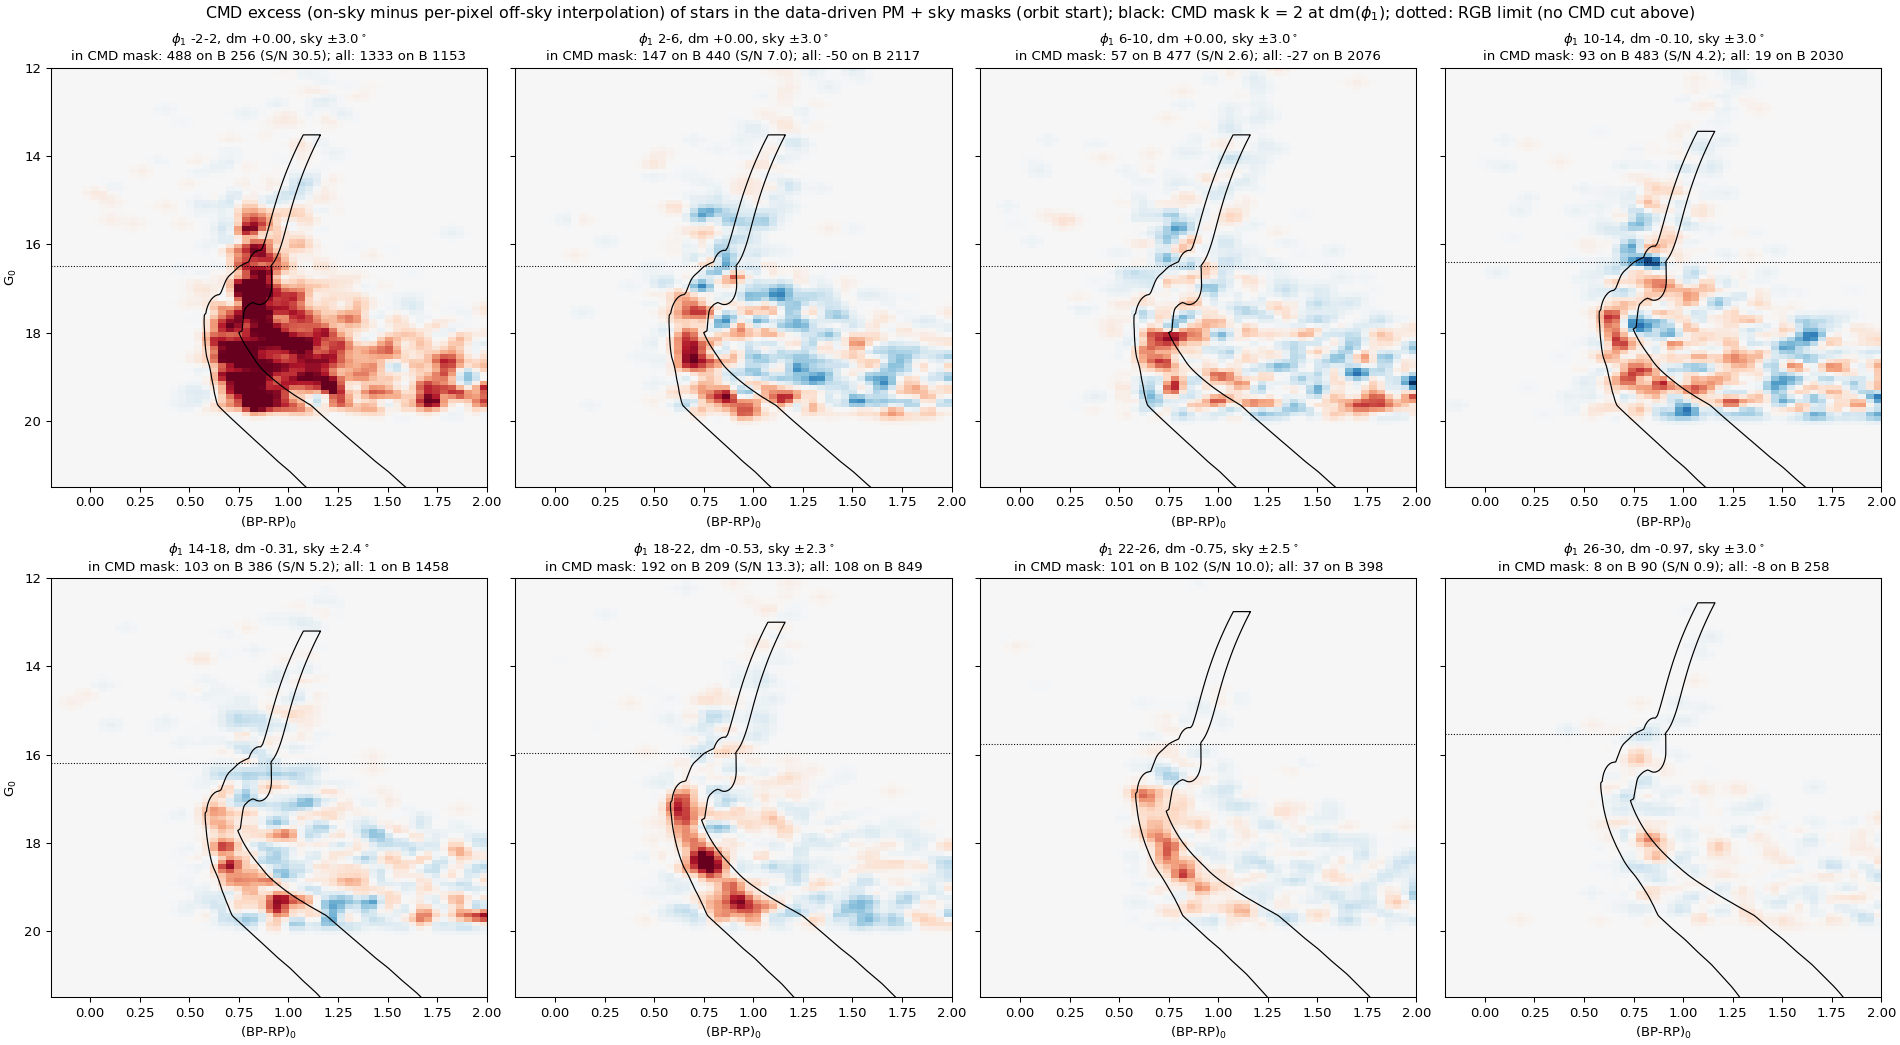
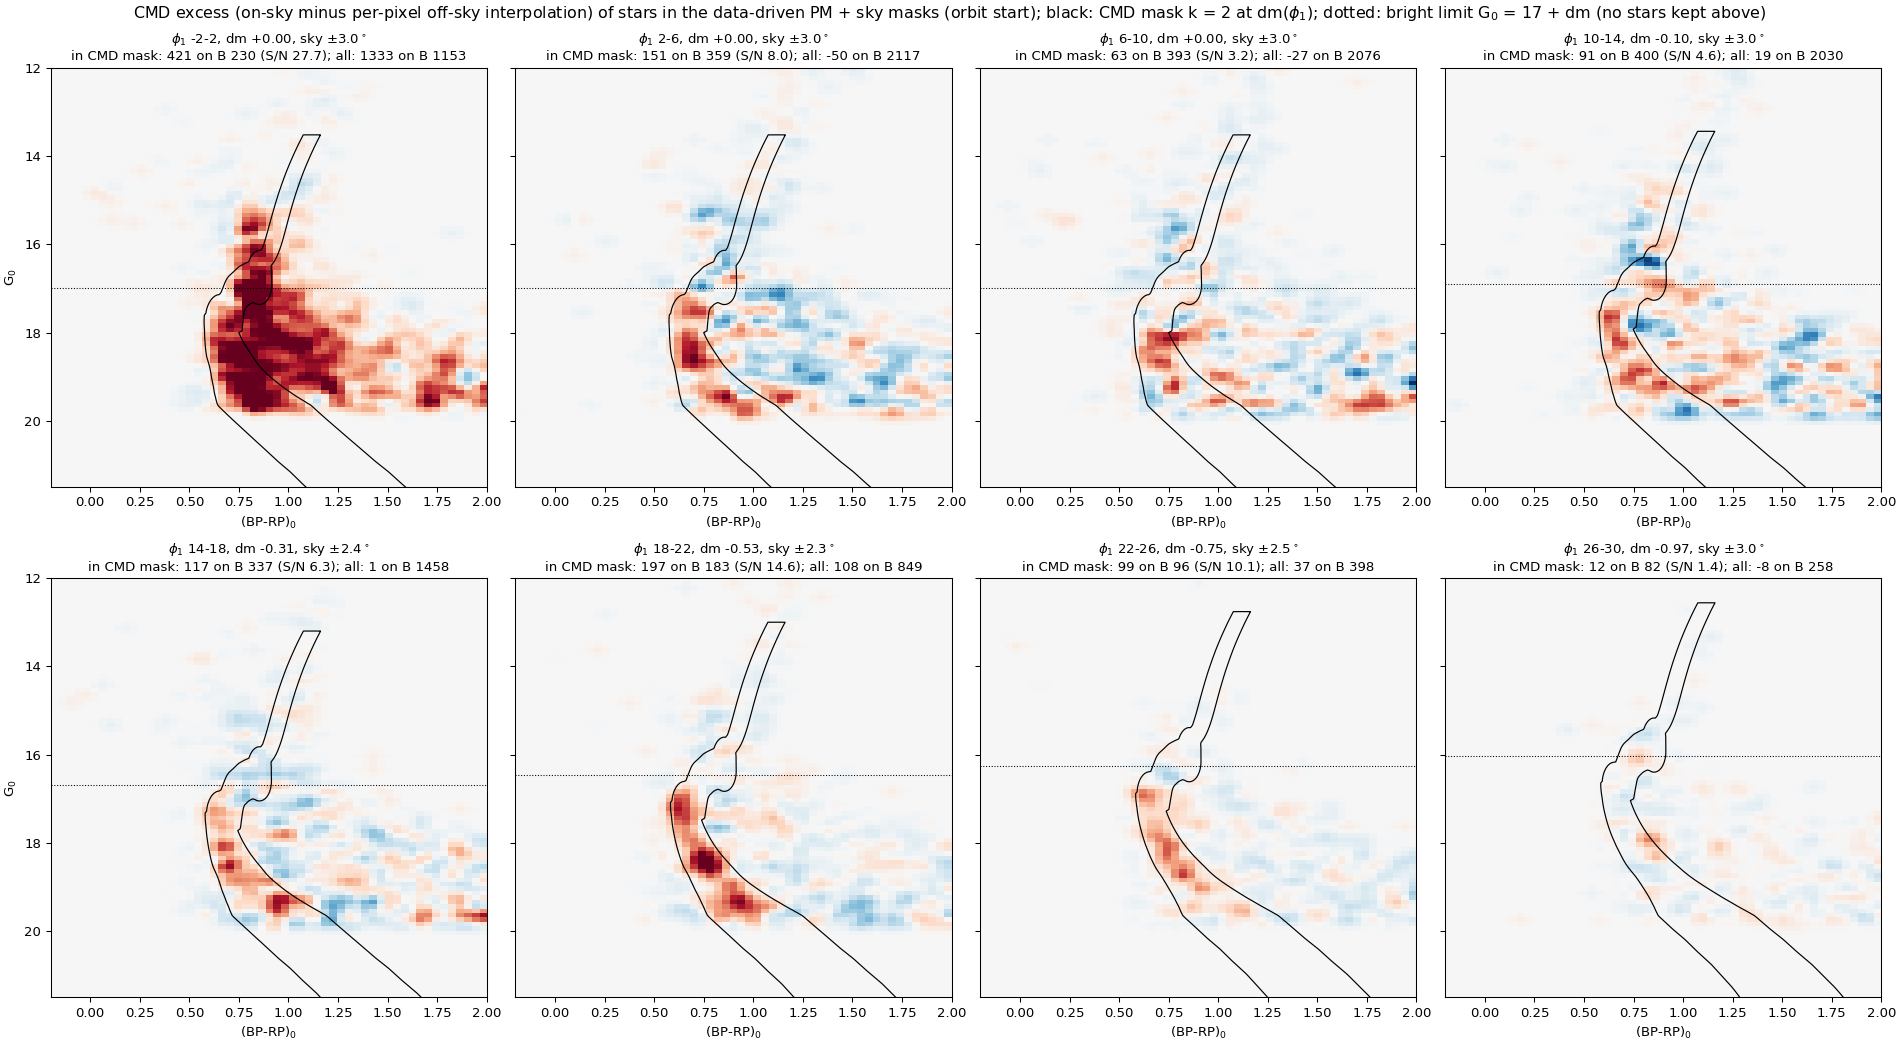
stream_cmd_excess_masks.py: --g-bright option; orbit-start figure with the bright limit at template G0 = 17

diff --git a/bin/streams/stream_cmd_excess_masks.py b/bin/streams/stream_cmd_excess_masks.py
@@ -7,7 +7,8 @@ Background per CMD pixel: quadratic in y = dphi2 - centre fitted to 1-deg bands 
 integrated over the window (as the PM panels of stream_masks.py; no red-control normalisation).
 Panels: 4-deg phi1 bins, excess Hess diagram with the CMD mask (k = 2, dm(phi1) relation of gaia_cmd_mask.json; dashed: the
 template-frame G0 = 16.5 limit above which the CMD cut is not applied).
-Usage: PYTHONPATH=src python bin/streams/stream_cmd_excess_masks.py [--masks orbitstart] -> plots/stream_cmd_excess_masks[_orbitstart].png
+--g-bright G: template-frame bright limit of the CMD cut (default gaia_cmd_mask.G_BRIGHT = 16.5).
+Usage: PYTHONPATH=src python bin/streams/stream_cmd_excess_masks.py [--masks orbitstart] [--g-bright 17] -> plots/stream_cmd_excess_masks[_orbitstart].png
 """
 import json, sys
 from pathlib import Path
@@ -23,7 +24,8 @@ EC, EG = np.arange(-0.2, 2.01, 0.04), np.arange(12, 21.51, 0.1)
 
 def main():
     from gaia_footprint_plots import gc_masked
-    from gaia_cmd_mask import CMDMask, G_BRIGHT
+    from gaia_cmd_mask import CMDMask, G_BRIGHT as GB0
+    G_BRIGHT = float(sys.argv[sys.argv.index("--g-bright")+1]) if "--g-bright" in sys.argv else GB0
     raw = dict(np.load(ROOT/"results/streams/gaia_footprint_dr3.npz")); z0 = np.load(ROOT/"results/streams/gaia_footprint_dered.npz")
     assert np.array_equal(z0["source_id"], raw["source_id"])
     lg = np.where(raw["l"] > 180, raw["l"]-360, raw["l"]).astype(float); keep = ~gc_masked(lg, raw["b"].astype(float)) & np.isfinite(z0["c0"])
@@ -61,7 +63,7 @@ def main():
     for a in ax[:, 0]:
         a.set_ylabel(r"G$_0$")
     fig.suptitle(f"CMD excess (on-sky minus per-pixel off-sky interpolation) of stars in the data-driven PM + sky masks "
-                 f"({'orbit start' if TAG == 'orbitstart' else 'marked start'}); black: CMD mask k = 2 at dm($\\phi_1$); dotted: RGB limit (no CMD cut above)")
+                 f"({'orbit start' if TAG == 'orbitstart' else 'marked start'}); black: CMD mask k = 2 at dm($\\phi_1$); dotted: bright limit G$_0$ = {G_BRIGHT:g} + dm (no stars kept above)")
     out = ROOT/f"plots/stream_cmd_excess_masks{'_' + TAG if TAG else ''}.png"; fig.savefig(out, dpi=95); print(out.relative_to(ROOT))
 
 
